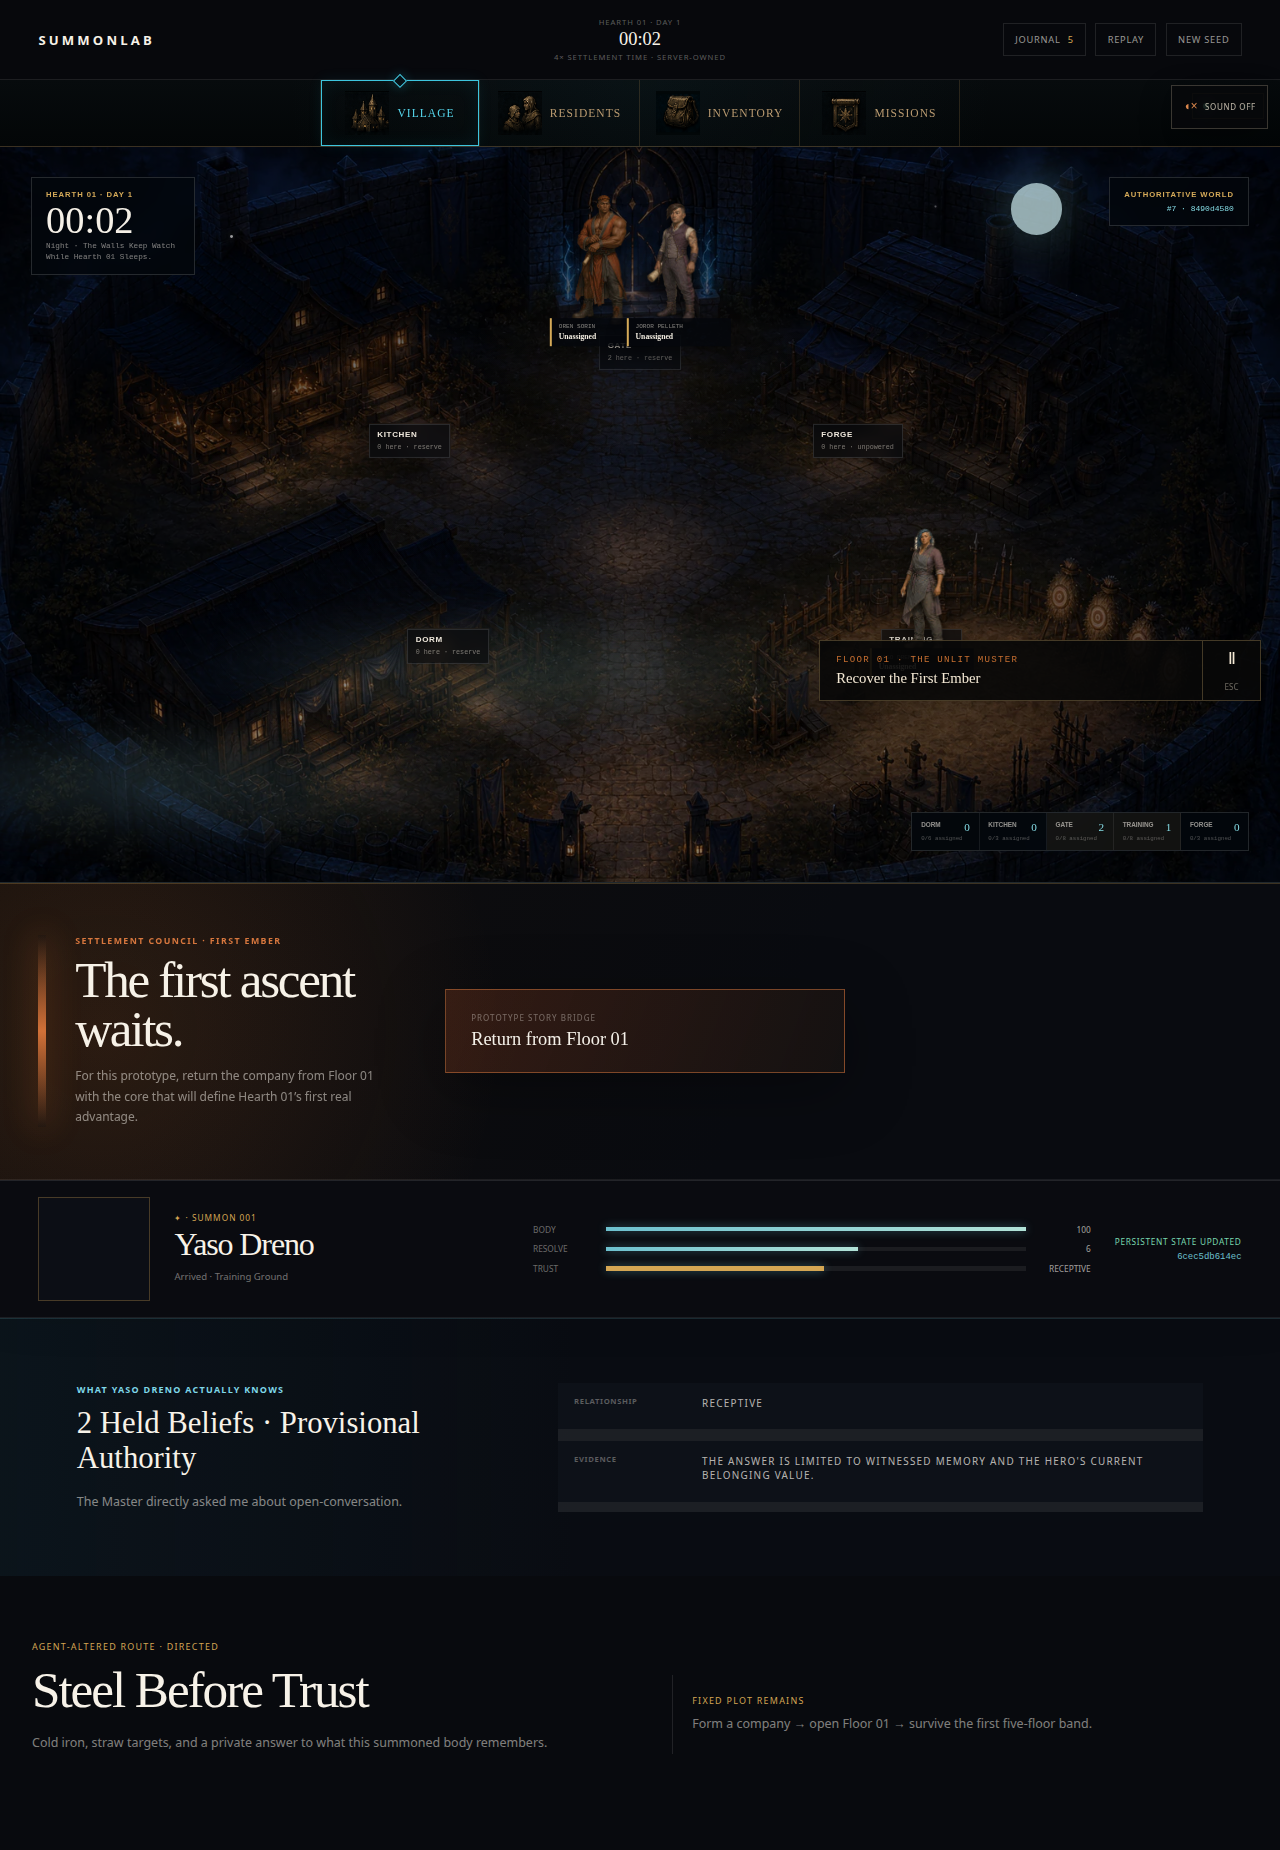
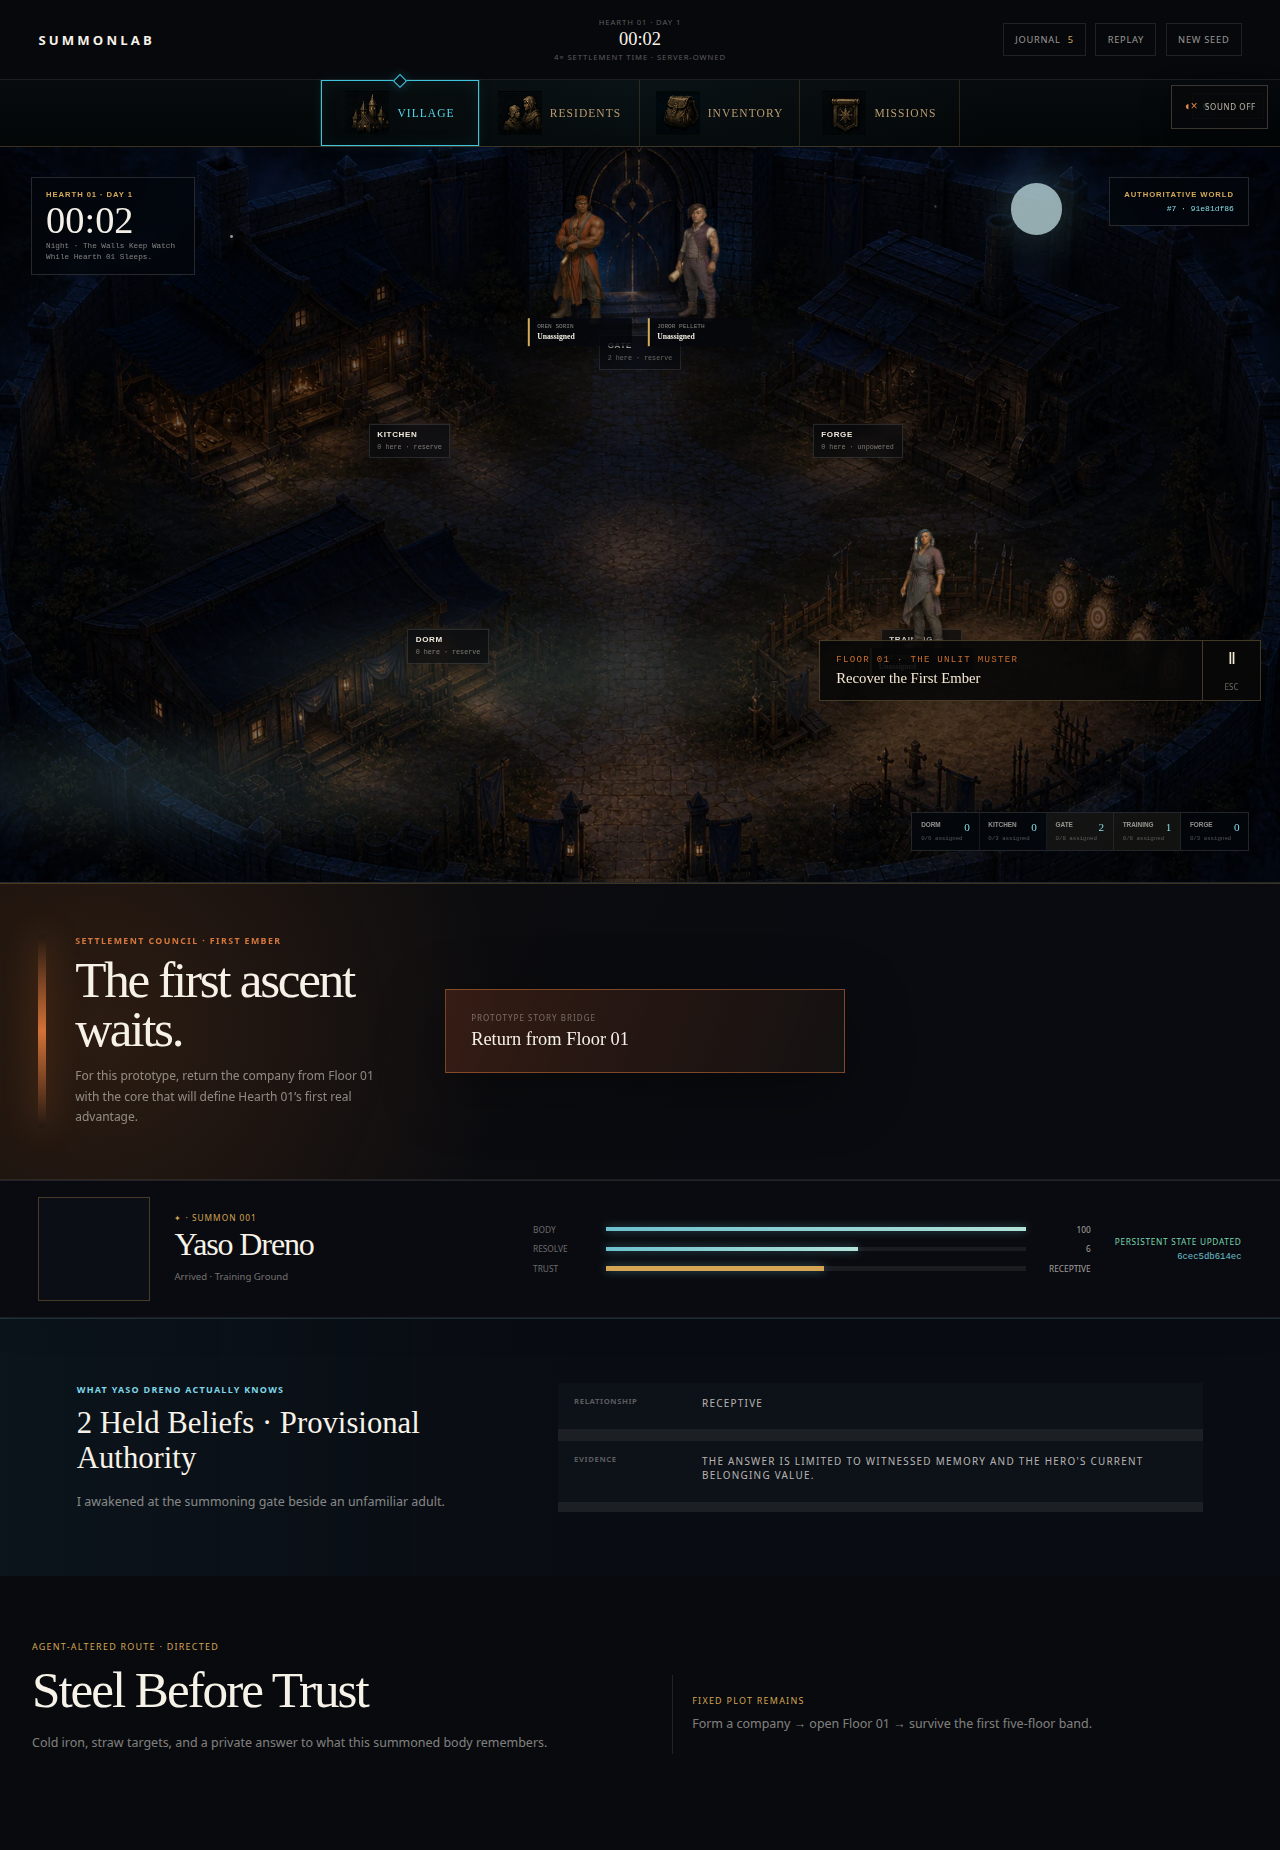
fix(village): prevent persistent overlay collisions

Changed region(s): [[0.4062, 0.0924, 0.5625, 0.1849], [0.0625, 0.8011, 0.1562, 0.8319], [0.2812, 0.8011, 0.3125, 0.8319]]

diff --git a/apps/web/src/routes/village-shell.e2e.ts b/apps/web/src/routes/village-shell.e2e.ts
@@ -1,7 +1,36 @@
-import { expect, test, type APIRequestContext } from '@playwright/test';
+import { expect, test, type APIRequestContext, type Locator } from '@playwright/test';
 
 const campaignSeed = 'village-shell-19aa1947-bcad-4fab-b2f8-e0e34a9b7eb3';
 const expectedHeroNames = ['Yaso Dreno', 'Oren Sorin', 'Joror Pelleth'] as const;
+
+interface Box {
+	readonly x: number;
+	readonly y: number;
+	readonly width: number;
+	readonly height: number;
+}
+
+function boxesIntersect(left: Box, right: Box): boolean {
+	return (
+		left.x < right.x + right.width &&
+		left.x + left.width > right.x &&
+		left.y < right.y + right.height &&
+		left.y + left.height > right.y
+	);
+}
+
+async function expectPairwiseNonIntersecting(locator: Locator, label: string) {
+	const boxes = await Promise.all((await locator.all()).map((entry) => entry.boundingBox()));
+	for (const [index, box] of boxes.entries()) {
+		expect(box, `${label} ${index + 1} must have rendered bounds`).not.toBeNull();
+		for (let other = index + 1; other < boxes.length; other += 1) {
+			expect(
+				boxesIntersect(box!, boxes[other]!),
+				`${label} ${index + 1} ${JSON.stringify(box)} and ${other + 1} ${JSON.stringify(boxes[other])} must not intersect`
+			).toBe(false);
+		}
+	}
+}
 
 async function prepareArrivedCampaign(request: APIRequestContext) {
 	const creation = await request.post('/api/campaigns', {
@@ -79,6 +108,12 @@ test('persistent Village shell connects campaign destinations on desktop and pho
 		'page'
 	);
 	await expect(page.getByRole('link', { name: 'summonlab' })).toBeVisible();
+	await expect(page.getByRole('button', { name: /Journal/u })).toBeVisible();
+	await expect(page.getByRole('link', { name: 'Replay', exact: true })).toBeVisible();
+	await expect(page.getByRole('link', { name: 'New seed', exact: true })).toBeVisible();
+	const sensoryControls = page.getByTestId('sensory-controls');
+	await expect(sensoryControls).toBeVisible();
+	await expect(sensoryControls.getByRole('button', { name: /sound/u })).toBeVisible();
 	await expect(page.getByTestId('campaign-status-header')).toHaveCount(0);
 	const desktopScene = page.getByTestId('living-settlement');
 	const sceneResidents = desktopScene.getByTestId('village-scene-resident');
@@ -89,6 +124,11 @@ test('persistent Village shell connects campaign destinations on desktop and pho
 	for (const hero of heroes) {
 		await expect(desktopScene.getByText(hero.name, { exact: true })).toBeVisible();
 	}
+	await expectPairwiseNonIntersecting(sceneResidents, 'desktop resident link');
+	await expectPairwiseNonIntersecting(
+		desktopScene.locator('.activity-tag'),
+		'desktop resident tag'
+	);
 	for (const art of await residentArt.all()) {
 		await expect(art).toBeVisible();
 		const cornerAlpha = await art.evaluate(async (element) => {
@@ -153,9 +193,38 @@ test('persistent Village shell connects campaign destinations on desktop and pho
 
 	await page.setViewportSize({ width: 390, height: 844 });
 	await page.goto(`/play/${runId}`);
-	await expect(
-		page.getByTestId('living-settlement').locator('img.village-resident-art')
-	).toHaveCount(3);
+	const phoneScene = page.getByTestId('living-settlement');
+	const phoneResidents = phoneScene.getByTestId('village-scene-resident');
+	const phoneResidentArt = phoneScene.locator('img.village-resident-art');
+	await expect(phoneResidents).toHaveCount(3);
+	await expect(phoneResidentArt).toHaveCount(3);
+	for (const [index, hero] of heroes.entries()) {
+		await expect(phoneResidentArt.nth(index)).toBeVisible();
+		await expect(phoneScene.getByText(hero.name, { exact: true })).toBeVisible();
+		await expect(
+			phoneScene.getByRole('link', { name: new RegExp(`^${hero.name}:`, 'u') })
+		).toBeVisible();
+	}
+	for (const resident of await phoneResidents.all()) {
+		const box = await resident.boundingBox();
+		expect(box?.height).toBeGreaterThanOrEqual(44);
+		expect(box?.width).toBeGreaterThanOrEqual(44);
+	}
+	await expectPairwiseNonIntersecting(phoneResidents, 'phone resident link');
+	await expectPairwiseNonIntersecting(phoneScene.locator('.activity-tag'), 'phone resident tag');
+	await expect(page.getByRole('button', { name: /Journal/u })).toBeVisible();
+	await expect(page.getByRole('link', { name: 'Replay', exact: true })).toBeVisible();
+	await expect(page.getByRole('link', { name: 'New seed', exact: true })).toBeVisible();
+	await expect(sensoryControls).toBeVisible();
+	await expect(sensoryControls.getByRole('button', { name: /sound/u })).toBeVisible();
+	const soundBox = await sensoryControls.boundingBox();
+	const timeBox = await phoneScene.locator('.time-plaque').boundingBox();
+	expect(soundBox).not.toBeNull();
+	expect(timeBox).not.toBeNull();
+	expect(
+		boxesIntersect(soundBox!, timeBox!),
+		`phone sound ${JSON.stringify(soundBox)} and time ${JSON.stringify(timeBox)} controls must not intersect`
+	).toBe(false);
 	const phoneNav = page.getByRole('navigation', { name: 'Village destinations' });
 	const phoneLinks = phoneNav.getByRole('link');
 	await expect(phoneLinks).toHaveCount(4);

diff --git a/apps/web/src/lib/components/LivingHearthScene.svelte b/apps/web/src/lib/components/LivingHearthScene.svelte
@@ -99,7 +99,7 @@
 		{#if knownResident}
 			<a
 				class={`scene-resident pose-${sceneResident.occupant.pose}`}
-				style={`--x:${sceneResident.point.x * 100}%;--y:${sceneResident.point.y * 100}%`}
+				style={`--x:${sceneResident.point.x * 100}%;--y:${sceneResident.point.y * 100}%;--cluster-offset:${sceneResident.clusterOffsetRem}rem;--cluster-half:${sceneResident.clusterHalfRem}rem`}
 				href={`?mode=residents#resident-${knownResident.heroId}`}
 				data-testid="village-scene-resident"
 				aria-label={`${sceneResident.label}: ${sceneResident.occupant.activityLabel}. View resident details.`}
@@ -135,7 +135,7 @@
 		{:else}
 			<div
 				class={`scene-resident unavailable pose-${sceneResident.occupant.pose}`}
-				style={`--x:${sceneResident.point.x * 100}%;--y:${sceneResident.point.y * 100}%`}
+				style={`--x:${sceneResident.point.x * 100}%;--y:${sceneResident.point.y * 100}%;--cluster-offset:${sceneResident.clusterOffsetRem}rem;--cluster-half:${sceneResident.clusterHalfRem}rem`}
 				data-testid="village-scene-resident"
 			>
 				<div class="art-pending">{sceneResident.label}</div>
@@ -343,7 +343,7 @@
 	.scene-resident {
 		position: absolute;
 		z-index: 8;
-		left: var(--x);
+		left: clamp(var(--cluster-half), var(--x), calc(100% - var(--cluster-half)));
 		top: var(--y);
 		display: flex;
 		width: clamp(3.6rem, 8vw, 7.2rem);
@@ -352,7 +352,7 @@
 		justify-content: center;
 		color: inherit;
 		text-decoration: none;
-		transform: translate(-50%, -100%);
+		transform: translate(calc(-50% + var(--cluster-offset)), -100%);
 		transition:
 			left 0.8s linear,
 			top 0.8s linear;

diff --git a/apps/web/src/lib/village-scene.spec.ts b/apps/web/src/lib/village-scene.spec.ts
@@ -51,7 +51,7 @@ function resident(heroId: string): VillageResident {
 }
 
 describe('Village scene residents', () => {
-	it('preserves authoritative occupant order while separating equal scene points', () => {
+	it('preserves authoritative occupant order while reserving a full label footprint per cluster slot', () => {
 		const projected = projectVillageSceneResidents(scene, presentation, heroIds.map(resident));
 
 		expect(projected.map((entry) => entry.resident?.heroId)).toEqual([
@@ -59,8 +59,9 @@ describe('Village scene residents', () => {
 			presentation.occupants[1]!.heroId,
 			presentation.occupants[2]!.heroId
 		]);
-		expect(projected[0]!.point.x).toBeLessThan(projected[1]!.point.x);
-		expect(projected[1]!.point.x).toBeLessThan(projected[2]!.point.x);
+		expect(projected.map((entry) => entry.point.x)).toEqual([0.5, 0.5, 0.5]);
+		expect(projected.map((entry) => entry.clusterOffsetRem)).toEqual([-7.5, 0, 7.5]);
+		expect(projected.map((entry) => entry.clusterHalfRem)).toEqual([11.25, 11.25, 11.25]);
 		expect(projected.every((entry) => entry.point.x >= 0.08 && entry.point.x <= 0.92)).toBe(true);
 	});
 

diff --git a/apps/web/src/lib/village-scene.ts b/apps/web/src/lib/village-scene.ts
@@ -10,12 +10,14 @@ export interface VillageSceneResident {
 	readonly occupant: SettlementPresentation['occupants'][number];
 	readonly resident: VillageResident | null;
 	readonly point: NormalizedScenePoint;
+	readonly clusterOffsetRem: number;
+	readonly clusterHalfRem: number;
 	readonly label: string;
 }
 
 const MINIMUM_SCENE_X = 0.08;
 const MAXIMUM_SCENE_X = 0.92;
-const COLLISION_OFFSET = 0.06;
+const CLUSTER_SLOT_REM = 7.5;
 
 export function projectVillageSceneResidents(
 	scene: SettlementSceneDefinition,
@@ -43,13 +45,11 @@ export function projectVillageSceneResidents(
 			occupant,
 			resident,
 			point: {
-				x: clamp(
-					basePoint.x + (offsetIndex - (group.length - 1) / 2) * COLLISION_OFFSET,
-					MINIMUM_SCENE_X,
-					MAXIMUM_SCENE_X
-				),
+				x: clamp(basePoint.x, MINIMUM_SCENE_X, MAXIMUM_SCENE_X),
 				y: basePoint.y
 			},
+			clusterOffsetRem: (offsetIndex - (group.length - 1) / 2) * CLUSTER_SLOT_REM,
+			clusterHalfRem: (group.length * CLUSTER_SLOT_REM) / 2,
 			label: resident?.name ?? 'Resident unavailable'
 		};
 	});

diff --git a/apps/web/src/lib/components/PlayerSensoryLayer.svelte b/apps/web/src/lib/components/PlayerSensoryLayer.svelte
@@ -239,8 +239,8 @@
 		}
 		.sensory-layer.profile-hearth {
 			top: 6.75rem;
-			right: auto;
-			left: 0.45rem;
+			right: 0.45rem;
+			left: auto;
 		}
 		.sound-caption {
 			top: 7.35rem;
@@ -254,8 +254,8 @@
 		.profile-hearth + .sensory-effect + .sound-caption,
 		.profile-hearth + .sound-caption {
 			top: 9.7rem;
-			right: auto;
-			left: 0.45rem;
+			right: 0.45rem;
+			left: auto;
 		}
 	}
 </style>
